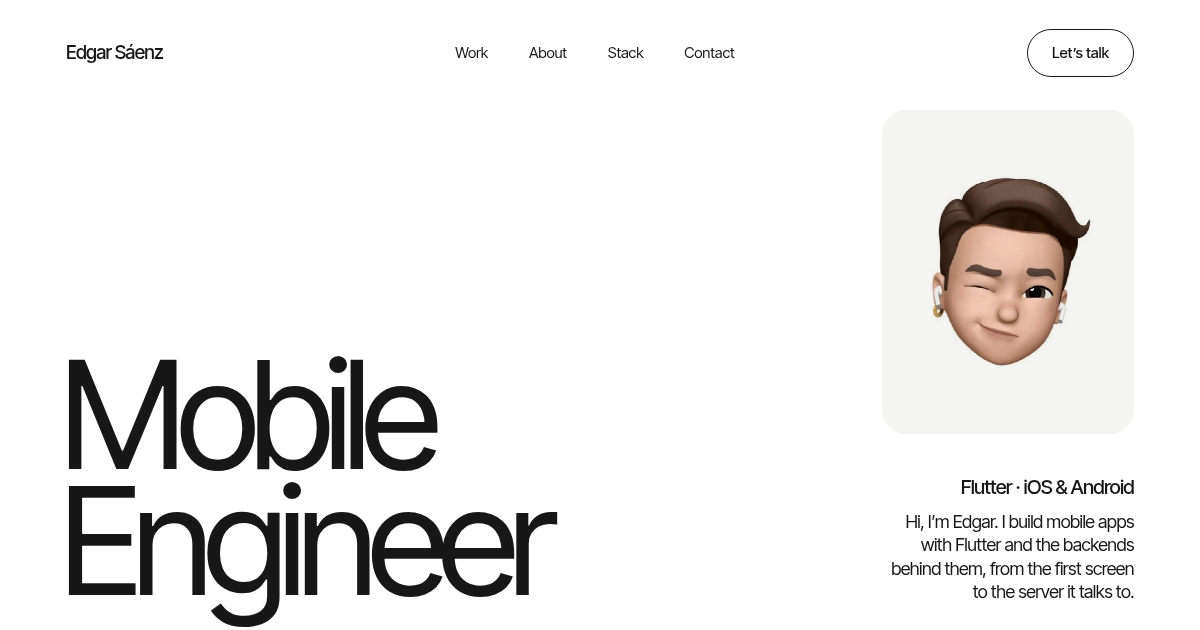
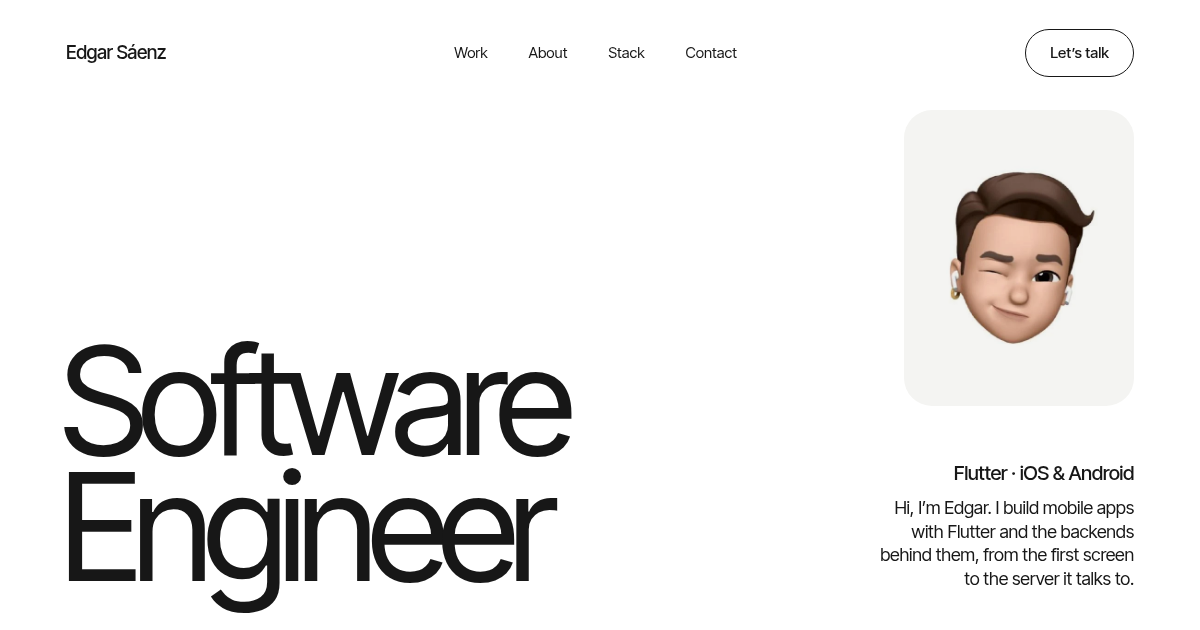
Hero con altura fija y titulo Software Engineer
El hero ya no ocupa toda la altura de la pantalla y el contenedor baja a 1440px, para que no quede hueco en monitores grandes.

diff --git a/styles.css b/styles.css
@@ -39,7 +39,7 @@ ul { padding: 0; list-style: none; }
 
 .wrap {
   width: 100%;
-  max-width: 1560px;
+  max-width: 1440px;
   margin-inline: auto;
   padding-inline: var(--pad);
 }
@@ -110,13 +110,12 @@ h2 {
 /* Hero */
 
 .hero {
-  min-height: 100svh;
   display: grid;
   grid-template-columns: 1fr auto;
   align-items: end;
   gap: 40px;
-  padding-top: clamp(110px, 16vh, 150px);
-  padding-bottom: clamp(48px, 9vh, 110px);
+  padding-top: 145px;
+  padding-bottom: 96px;
 }
 
 .hero-title {
@@ -137,20 +136,20 @@ h2 {
 .hero-title .line > span { display: block; }
 
 .hero-side {
-  align-self: stretch;
   display: flex;
   flex-direction: column;
   justify-content: space-between;
   align-items: flex-end;
   gap: 40px;
-  width: clamp(240px, 21vw, 300px);
+  width: 280px;
+  min-height: clamp(520px, calc(100svh - 241px), 634px);
 }
 
 .portrait {
   position: relative;
   width: 100%;
   aspect-ratio: 7 / 9;
-  border-radius: 24px;
+  border-radius: 28px;
   background: #f4f4f2;
   overflow: hidden;
   display: grid;
@@ -162,13 +161,13 @@ h2 {
   mix-blend-mode: multiply;
 }
 
-.hero-copy { text-align: right; font-size: 18px; line-height: 1.3; letter-spacing: -0.012em; }
+.hero-copy { width: 260px; text-align: right; font-size: 18px; line-height: 1.3; letter-spacing: -0.012em; }
 
 .hero-role { font-size: 20px; font-weight: 500; letter-spacing: -0.025em; margin-bottom: 10px; }
 
 /* Work */
 
-.work { padding-block: clamp(70px, 9vw, 120px) clamp(90px, 13vw, 190px); }
+.work { padding-block: clamp(56px, 7vw, 100px) clamp(90px, 13vw, 190px); }
 
 .section-head h2 { margin-top: 10px; font-size: clamp(2.6rem, 4.6vw, 4rem); }
 
@@ -362,14 +361,15 @@ h2 {
   .hero {
     grid-template-columns: 1fr;
     align-items: start;
-    align-content: end;
-    gap: 32px;
-    min-height: 100svh;
+    gap: 36px;
+    padding-top: 112px;
+    padding-bottom: 56px;
   }
 
   .hero-side {
     order: -1;
     width: 100%;
+    min-height: 0;
     flex-direction: row;
     align-items: flex-end;
     justify-content: flex-start;
@@ -377,7 +377,7 @@ h2 {
   }
 
   .portrait { width: 132px; flex: none; border-radius: 18px; aspect-ratio: 1; }
-  .hero-copy { text-align: left; font-size: 16px; }
+  .hero-copy { width: auto; text-align: left; font-size: 16px; }
   .hero-role { font-size: 17px; }
   .hero-title { font-size: clamp(3.9rem, 21vw, 7rem); }
 

diff --git a/index.html b/index.html
@@ -3,9 +3,9 @@
 <head>
 <meta charset="utf-8">
 <meta name="viewport" content="width=device-width, initial-scale=1">
-<title>Edgar Sáenz | Mobile Engineer · Flutter</title>
-<meta name="description" content="Edgar Sáenz, mobile engineer. Flutter apps for iOS and Android and the backends behind them: Flufy, Sonora and healthcare apps at Meddi.">
-<meta property="og:title" content="Edgar Sáenz | Mobile Engineer · Flutter">
+<title>Edgar Sáenz | Software Engineer · Mobile &amp; Backend</title>
+<meta name="description" content="Edgar Sáenz, software engineer. Flutter apps for iOS and Android and the backends behind them: Flufy, Sonora and healthcare apps at Meddi.">
+<meta property="og:title" content="Edgar Sáenz | Software Engineer · Mobile &amp; Backend">
 <meta property="og:description" content="Flutter apps for iOS and Android and the backends behind them.">
 <meta property="og:type" content="website">
 <meta property="og:url" content="https://edgaraldair.me/">
@@ -39,8 +39,8 @@
 <main id="top">
 
   <section class="hero wrap">
-    <h1 class="hero-title" aria-label="Mobile Engineer">
-      <span class="line"><span>Mobile</span></span>
+    <h1 class="hero-title" aria-label="Software Engineer">
+      <span class="line"><span>Software</span></span>
       <span class="line"><span>Engineer</span></span>
     </h1>
 
@@ -162,7 +162,7 @@
 <footer class="foot wrap" id="contact">
   <div class="foot-left">
     <p class="foot-name">Edgar Sáenz</p>
-    <p class="foot-line">Mobile engineer. Flutter apps and the servers behind them.</p>
+    <p class="foot-line">Software engineer. Flutter apps and the servers behind them.</p>
   </div>
   <div class="foot-right">
     <a href="https://www.linkedin.com/in/edgar-saenz/" target="_blank" rel="noopener">LinkedIn <svg class="arrow" viewBox="0 0 13 13" fill="none" stroke="currentColor" stroke-width="1.3" aria-hidden="true"><path d="M1.5 11.5l10-10M3.5 1.5h8v8"/></svg></a>

diff --git a/projects/flufy/index.html b/projects/flufy/index.html
@@ -126,7 +126,7 @@
 <footer class="foot wrap">
   <div class="foot-left">
     <p class="foot-name">Edgar Sáenz</p>
-    <p class="foot-line">Mobile engineer. Flutter apps and the servers behind them.</p>
+    <p class="foot-line">Software engineer. Flutter apps and the servers behind them.</p>
   </div>
   <div class="foot-right">
     <a href="https://www.linkedin.com/in/edgar-saenz/" target="_blank" rel="noopener">LinkedIn <svg class="arrow" viewBox="0 0 13 13" fill="none" stroke="currentColor" stroke-width="1.3" aria-hidden="true"><path d="M1.5 11.5l10-10M3.5 1.5h8v8"/></svg></a>

diff --git a/projects/sonora/index.html b/projects/sonora/index.html
@@ -117,7 +117,7 @@
 <footer class="foot wrap">
   <div class="foot-left">
     <p class="foot-name">Edgar Sáenz</p>
-    <p class="foot-line">Mobile engineer. Flutter apps and the servers behind them.</p>
+    <p class="foot-line">Software engineer. Flutter apps and the servers behind them.</p>
   </div>
   <div class="foot-right">
     <a href="https://www.linkedin.com/in/edgar-saenz/" target="_blank" rel="noopener">LinkedIn <svg class="arrow" viewBox="0 0 13 13" fill="none" stroke="currentColor" stroke-width="1.3" aria-hidden="true"><path d="M1.5 11.5l10-10M3.5 1.5h8v8"/></svg></a>

diff --git a/projects/tablely/index.html b/projects/tablely/index.html
@@ -108,7 +108,7 @@
 <footer class="foot wrap">
   <div class="foot-left">
     <p class="foot-name">Edgar Sáenz</p>
-    <p class="foot-line">Mobile engineer. Flutter apps and the servers behind them.</p>
+    <p class="foot-line">Software engineer. Flutter apps and the servers behind them.</p>
   </div>
   <div class="foot-right">
     <a href="https://www.linkedin.com/in/edgar-saenz/" target="_blank" rel="noopener">LinkedIn <svg class="arrow" viewBox="0 0 13 13" fill="none" stroke="currentColor" stroke-width="1.3" aria-hidden="true"><path d="M1.5 11.5l10-10M3.5 1.5h8v8"/></svg></a>

diff --git a/projects/vintage-vibrance/index.html b/projects/vintage-vibrance/index.html
@@ -79,7 +79,7 @@
 <footer class="foot wrap">
   <div class="foot-left">
     <p class="foot-name">Edgar Sáenz</p>
-    <p class="foot-line">Mobile engineer. Flutter apps and the servers behind them.</p>
+    <p class="foot-line">Software engineer. Flutter apps and the servers behind them.</p>
   </div>
   <div class="foot-right">
     <a href="https://www.linkedin.com/in/edgar-saenz/" target="_blank" rel="noopener">LinkedIn <svg class="arrow" viewBox="0 0 13 13" fill="none" stroke="currentColor" stroke-width="1.3" aria-hidden="true"><path d="M1.5 11.5l10-10M3.5 1.5h8v8"/></svg></a>
